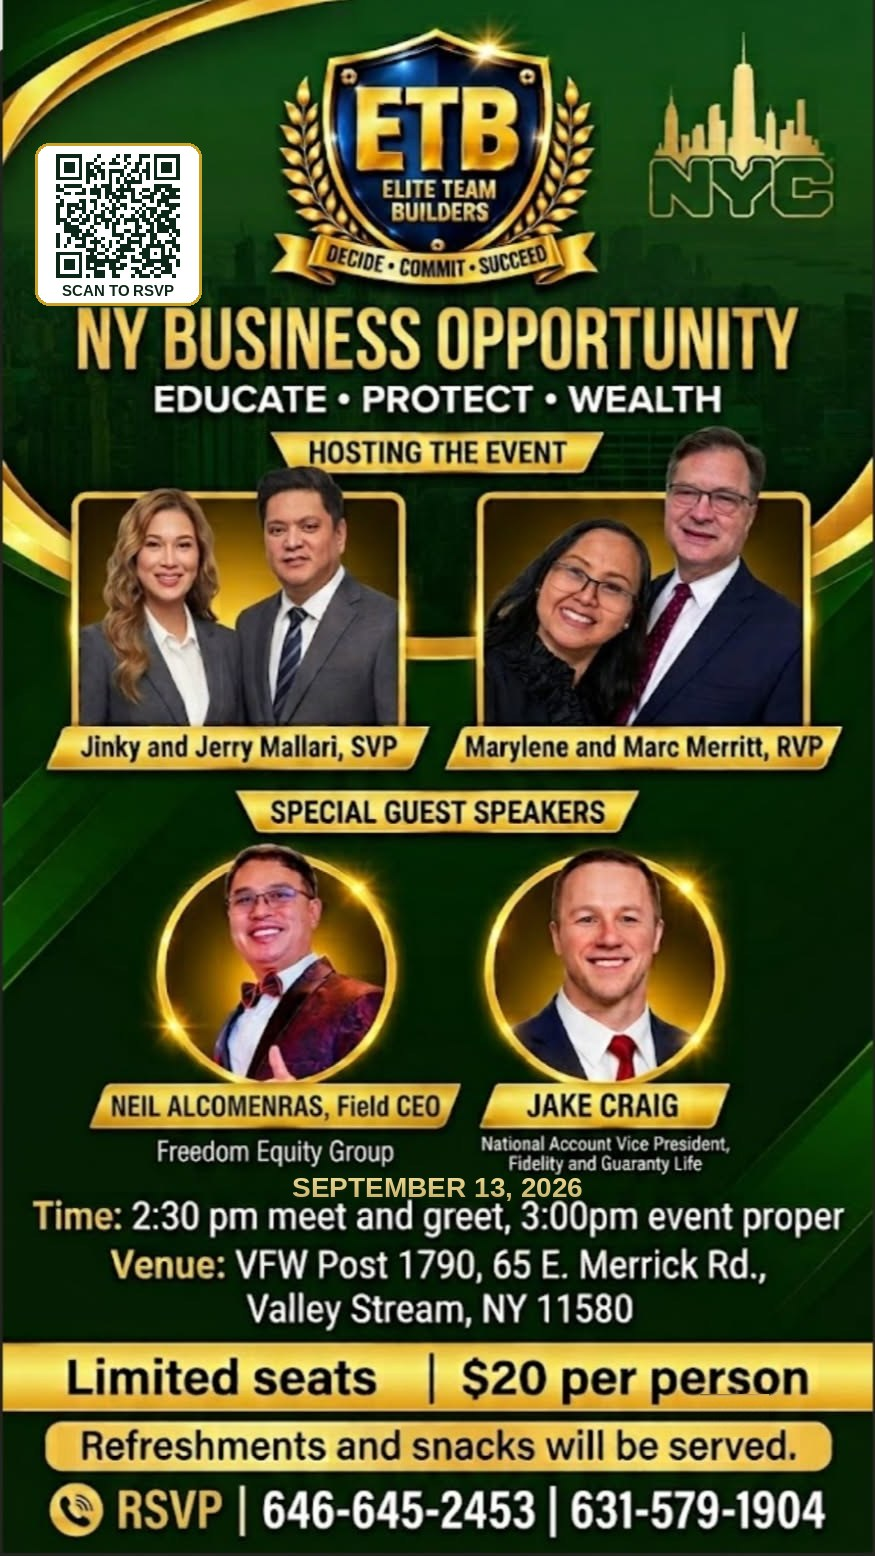
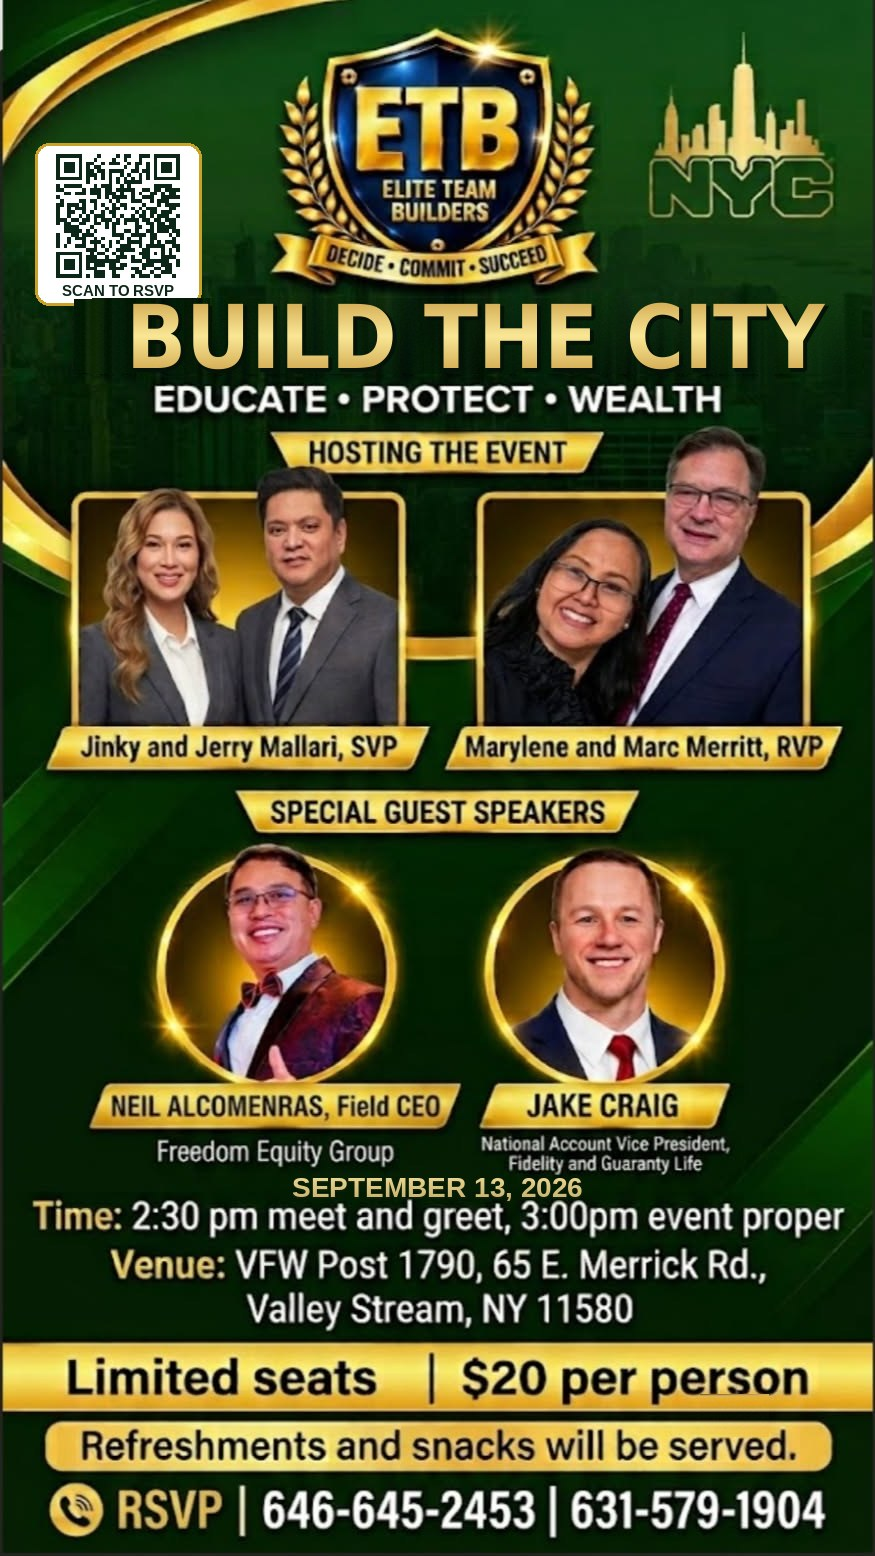
Change headline to Build The City

Changed region(s): [[0.0617, 0.1851, 0.9566, 0.2468]]

diff --git a/index.html b/index.html
@@ -3,8 +3,8 @@
 <head>
 <meta charset="utf-8">
 <meta name="viewport" content="width=device-width, initial-scale=1">
-<title>NY Business Opportunity — Hosted by Jinky &amp; Jerry Mallari, SVP and Marylene &amp; Marc Merritt, RVP</title>
-<meta name="description" content="ETB NY Business Opportunity — Educate, Protect, Wealth. September 13, 2026. VFW Post 1790, Valley Stream NY. 2:30 PM meet and greet, 3:00 PM event proper. Limited seats, $20 per person. RSVP 646-645-2453 or 631-579-1904.">
+<title>Build The City — NY Business Opportunity — Hosted by Jinky &amp; Jerry Mallari, SVP and Marylene &amp; Marc Merritt, RVP</title>
+<meta name="description" content="Build The City — ETB NY Business Opportunity — Educate, Protect, Wealth. September 13, 2026. VFW Post 1790, Valley Stream NY. 2:30 PM meet and greet, 3:00 PM event proper. Limited seats, $20 per person. RSVP 646-645-2453 or 631-579-1904.">
 <style>
 *{margin:0;padding:0;box-sizing:border-box}
 body{background:#0E2A1B;display:flex;justify-content:center}
@@ -21,7 +21,7 @@ body{background:#0E2A1B;display:flex;justify-content:center}
 </head>
 <body>
 <main class="wrap">
-  <img src="ETB-NYC-Flyer.jpg" alt="ETB Elite Team Builders — NY Business Opportunity: Educate, Protect, Wealth. Hosted by Jinky and Jerry Mallari, SVP, and Marylene and Marc Merritt, RVP. Special guest speakers Neil Alcomenras, Field CEO, Freedom Equity Group, and Jake Craig, National Account Vice President, Fidelity and Guaranty Life. September 13, 2026. 2:30 PM meet and greet, 3:00 PM event proper. Venue: VFW Post 1790, 65 E. Merrick Rd., Valley Stream, NY 11580. Limited seats, $20 per person. Refreshments and snacks will be served. RSVP 646-645-2453 or 631-579-1904.">
+  <img src="ETB-NYC-Flyer.jpg" alt="ETB Elite Team Builders — Build The City — NY Business Opportunity: Educate, Protect, Wealth. Hosted by Jinky and Jerry Mallari, SVP, and Marylene and Marc Merritt, RVP. Special guest speakers Neil Alcomenras, Field CEO, Freedom Equity Group, and Jake Craig, National Account Vice President, Fidelity and Guaranty Life. September 13, 2026. 2:30 PM meet and greet, 3:00 PM event proper. Venue: VFW Post 1790, 65 E. Merrick Rd., Valley Stream, NY 11580. Limited seats, $20 per person. Refreshments and snacks will be served. RSVP 646-645-2453 or 631-579-1904.">
   <a class="hot tel-marc" href="tel:+16466452453">Call 646-645-2453 to RSVP</a>
   <a class="hot tel-marylene" href="tel:+16315791904">Call 631-579-1904 to RSVP</a>
   <a class="hot venue" href="https://maps.google.com/?q=VFW+Post+1790,+65+E+Merrick+Rd,+Valley+Stream,+NY+11580" target="_blank" rel="noopener">Directions to VFW Post 1790, 65 E. Merrick Rd., Valley Stream, NY 11580</a>
